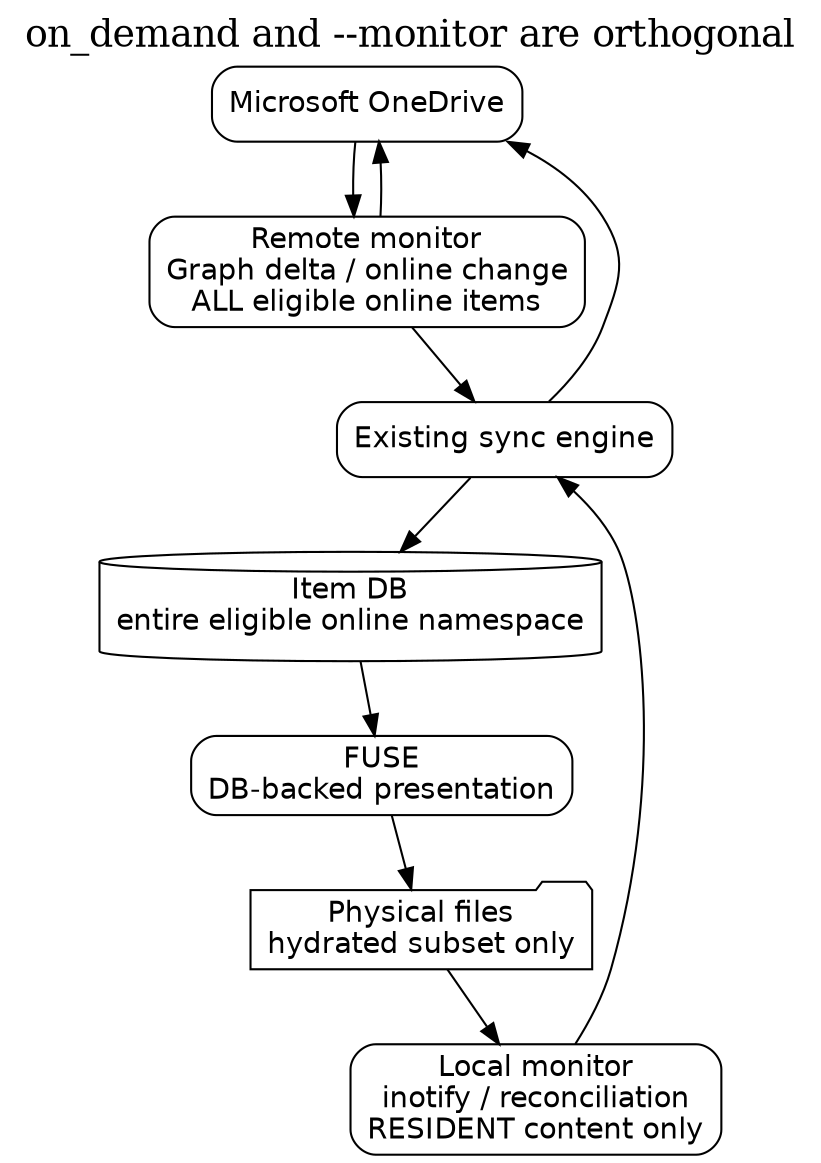
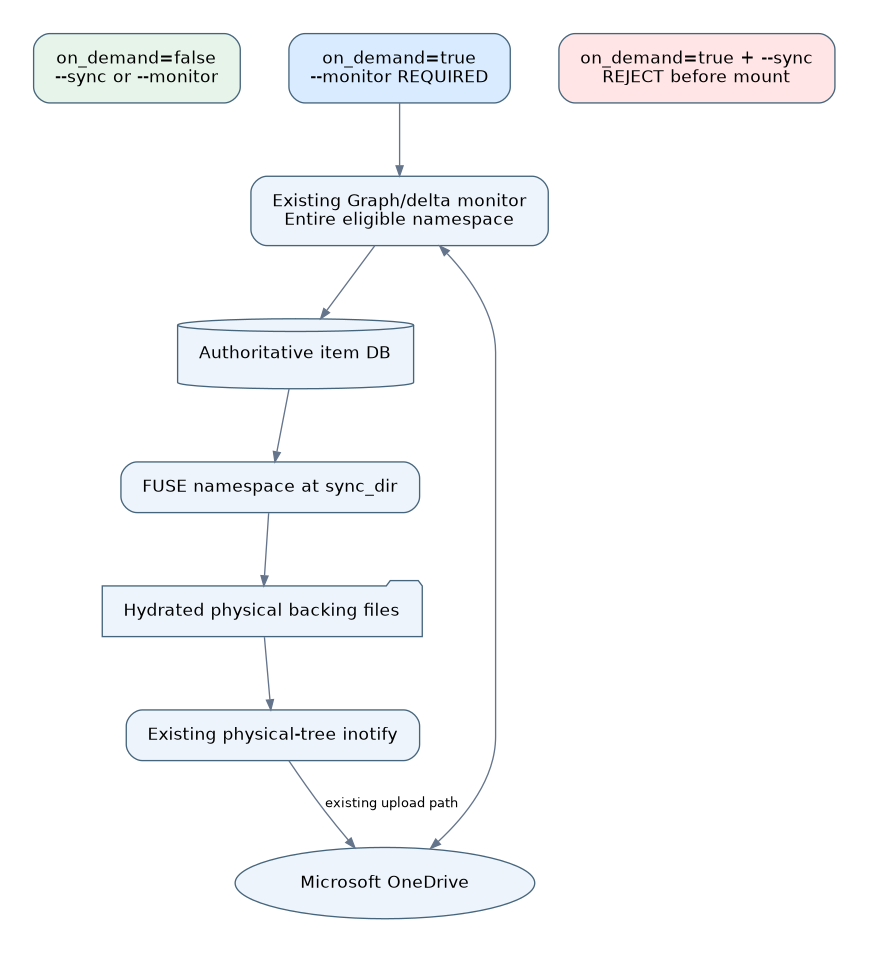
Update ADR
Update ADR

diff --git a/adr/ADR-001 - FUSE overlay and local storage/ADR-001-fuse-overlay-and-local-storage.md b/adr/ADR-001 - FUSE overlay and local storage/ADR-001-fuse-overlay-and-local-storage.md
@@ -105,28 +105,20 @@ The key distinction is:
 
 ---
 
-## 4. `on_demand` is orthogonal to normal synchronisation and `--monitor`
+## 4. `on_demand` requires `--monitor`; monitoring responsibilities remain unchanged
 
-This is a foundational design requirement.
+`on_demand` is a storage and namespace-presentation capability, not an alternative synchronisation engine or event loop. **On-demand operation requires `--monitor`**. A single-run `--sync` with `on_demand = "true"` is unsupported and must be rejected during configuration validation, before mounting FUSE or modifying local state.
 
-`on_demand` is **not** an alternative to `--monitor`, a special sync mode, or a replacement event loop.
+| Configuration | Supported | Behaviour |
+| --- | --- | --- |
+| `on_demand=false` + `--sync` | Yes | Existing single-run synchronisation |
+| `on_demand=false` + `--monitor` | Yes | Existing monitor operation |
+| `on_demand=true` + `--sync` | **No** | Explicit configuration error |
+| `on_demand=true` + `--monitor` | Yes | On-demand namespace with existing continuous remote/local monitoring |
 
-It is a storage/presentation capability that changes whether eligible remote content is immediately materialised.
+The responsibilities remain separate: remote Graph/delta monitoring covers the complete eligible online namespace, and local inotify/reconciliation covers physically resident content on the **underlying physical tree**, not the FUSE view. Cloud-only absence must never be interpreted as a local deletion.
 
-The following combinations are conceptually valid:
-
-```text
-on_demand=false + single sync
-on_demand=false + --monitor
-on_demand=true  + single sync
-on_demand=true  + --monitor
-```
-
-The meaning of `--monitor` does not change: the client continues monitoring Microsoft OneDrive for remote changes and the local filesystem for local changes.
-
-What changes is the **scope of physical local monitoring**, because cloud-only content has no local backing file to observe.
-
-![on_demand and monitor orthogonality](images/adr-001-monitor-orthogonality.png)
+![On-demand monitor operating model](images/adr-001-monitor-orthogonality.png)
 
 PlantUML source: [`plantuml/adr-001-monitor-orthogonality.puml`](plantuml/adr-001-monitor-orthogonality.puml)
 
@@ -425,6 +417,24 @@ FUSE must not implement an independent Microsoft Graph downloader.
 
 ---
 
+### 9.4 Background indexer and thumbnailer hydration guard — mandatory
+
+A FUSE `open()` does not, by itself, distinguish intentional user access from background inspection. Known indexers and thumbnail generators must **not automatically hydrate cloud-only content**. This protection is a required part of the demand-hydration milestone, not a later desktop enhancement.
+
+The initial policy is a **default-enabled, conservative process-identity blocklist**:
+
+1. For a content-requiring request against a `CLOUD_ONLY` file, inspect the FUSE request-context PID and, where available, `/proc/<pid>/exe` and `/proc/<pid>/comm`. Verify the executable identity before applying a block.
+2. Match recognised background scanners. Initial candidates include KDE Baloo (`baloo_file`, `baloo_file_extractor`), GNOME Tracker/LocalSearch (`tracker-miner-fs-3`, `localsearch-3`) and Tumbler (`tumblerd`), subject to confirmation of actual executable names and behaviour on supported desktops.
+3. For a blocked request, **do not enqueue a download, create a placeholder, or change residency state**. Return a defined filesystem error. Select `EACCES`, `EPERM`, or another suitable errno only after observing retry and user-interface behaviour.
+4. Allow metadata-only operations (`lookup`, `getattr`, `readdir`) without hydration. Allow recognised indexers to read already `HYDRATED` files normally.
+5. Allow unknown requesting processes to use ordinary hydration. Treat failed PID identity lookup as unknown for this *usability policy*; this is not a security boundary. Test PID reuse, process exit and identity ambiguity.
+6. Do not indiscriminately block generic desktop helpers such as KDE `kioworker`, which can perform deliberate user-initiated opens. Validate caller ancestry/context where necessary.
+7. Log blocked requests at debug verbosity without producing routine log floods. A configuration toggle or custom denylist may be added once naming and semantics are validated; the built-in default-on protection is required regardless.
+
+The guard is best-effort prevention of unintended background network/disk activity, not an access-control or anti-malware mechanism. A deliberately opened file must remain usable, and concurrent permitted/blocked requests must not race into unintended hydration.
+
+---
+
 ## 10. Hydrated edits and existing local-change processing
 
 Once hydrated, a file is real physical content.
@@ -475,7 +485,7 @@ After mounting, ordinary pathname lookup through `sync_dir` enters FUSE. The exi
 - local scanning;
 - conflict handling.
 
-### 11.1 Proposed mechanism to validate
+### 11.1 Current experimental mechanism and validation requirements
 
 Before mounting FUSE, retain a directory handle/file descriptor to the physical `sync_dir` and use directory-relative operations where appropriate:
 
@@ -487,7 +497,7 @@ unlinkat()
 renameat()
 ```
 
-This is a **prototype hypothesis**, not yet a final architectural decision.
+The current PR #3600 scaffold retains a physical-directory file descriptor before mounting and launches a dedicated helper via `fork()` followed immediately by `exec()` so the helper initialises its own D runtime/libfuse context. This is an **implemented experimental mechanism**, not yet a proven production architecture. A retained descriptor and directory-relative operations remain subject to validation.
 
 Testing must establish:
 
@@ -658,9 +668,13 @@ The exact ordering still requires prototype validation, but the lifecycle must s
 4. offline local changes are preserved/reconciled;
 5. local monitoring is attached to the correct physical backing tree;
 6. FUSE becomes visible at `sync_dir`;
-7. normal sync or `--monitor` operation continues;
+7. existing `--monitor` operation continues (single-run `--sync` is prohibited in on-demand mode);
 8. remote monitoring updates the entire eligible DB namespace;
 9. local monitoring processes only physically resident content.
+
+### 17.0 Mount readiness is a correctness gate
+
+The helper must not be considered ready merely because it is alive after a fixed delay. Before reporting the overlay active, verify the mount exists at the intended path and can successfully serve basic `getattr`/`readdir` operations. A failed or early-exiting helper must be reaped, descriptors closed, and any partially established mount safely recovered. Physical-tree inotify watches must remain attached to the backing tree throughout the lifecycle.
 
 ### 17.1 First-run / enabling on-demand on an existing sync
 
@@ -695,6 +709,10 @@ The client should:
 7. leave hydrated physical files directly accessible.
 
 Cloud-only entries cease to be visible locally while FUSE is absent, but remain in DB/OneDrive.
+
+### 18.1.1 Failed unmount and stale-mount recovery
+
+Unmount must be attempted and verified before the helper is terminated. If unmount fails, report an actionable error, inspect the actual mount state, and provide safe recovery rather than assuming that killing the helper removed the mount. Stale FUSE mounts must be detected at the next startup without deleting or overwriting hydrated physical data. Failure injection must cover early helper exit, `SIGTERM`, `SIGKILL`, unmount failure and interruption between physical and DB state transitions.
 
 ### 18.2 Crash
 
@@ -787,9 +805,7 @@ Aggressive caching may improve performance for large accounts, but correctness a
 
 ## 22. FUSE3 foundation
 
-Recovered groundwork contains D bindings with FUSE2-style callback signatures while the build configuration targets FUSE3.
-
-The bindings must be reconciled with the supported FUSE3 API before production integration.
+The experimental branch includes vendored D FUSE bindings and an explicit libfuse3 session. Their callback signatures, struct layouts and lifecycle must be validated against the supported FUSE3 ABI before production integration.
 
 This is an appropriate isolated contribution because it establishes infrastructure without deciding higher-level synchronisation semantics.
 
@@ -804,13 +820,17 @@ Binding work should include:
 
 ---
 
+The current scaffold uses an explicitly launched FUSE helper and a retained physical-directory FD. It still requires runtime proof of callback ABI correctness, errno mapping, file-handle and threading behaviour, verified readiness, clean unmount and stale-mount recovery. Remove unconditional `[FUSE-DEBUG]` output and unconditional libfuse `-d` diagnostics before production use; integrate diagnostic verbosity with existing logging policy. Linux and FreeBSD support must be validated separately rather than inferred from build success.
+
+---
+
 ## 23. Architectural invariants
 
 **INV-001 — Disabled means existing behaviour.**  
 `on_demand = "false"` retains current non-FUSE behaviour unless the user is explicitly transitioning from a previously cloud-only on-demand state.
 
-**INV-002 — `on_demand` is orthogonal to `--monitor`.**  
-On-demand does not disable or replace normal monitor mode, Graph delta processing or local change processing.
+**INV-002 — On-demand requires `--monitor`.**  
+`on_demand=true` is supported only with `--monitor`; it is invalid with `--sync`. This does not replace existing Graph or local monitor engines.
 
 **INV-003 — Remote monitoring covers the entire eligible namespace.**  
 Cloud-only items remain monitored remotely and represented through DB/FUSE.
@@ -862,89 +882,70 @@ Caches may accelerate presentation but must converge on authoritative DB state.
 
 ---
 
+**INV-019 — Background scanning does not automatically hydrate cloud-only content.**  
+Recognised background indexers/thumbnailers are denied content-triggered hydration by default; metadata operations and already hydrated content remain accessible.
+
+**INV-020 — Mount readiness is verified.**  
+An alive helper PID or elapsed startup delay alone does not establish a working overlay.
+
+**INV-021 — Failed unmount is surfaced and recoverable.**  
+Helper termination alone does not prove the mount has gone; physical content is preserved.
+
+**INV-022 — Demand hydration does not introduce a second download engine.**  
+FUSE requests are coordinated with the existing validated download path and item-identity rules.
+
+---
+
 ## 24. Implementation stages
 
-### Stage 1 — FUSE3 foundation
+### Stage 1 — FUSE3 lifecycle and physical overlay safety
 
-- reconcile/update bindings;
-- lifecycle object;
-- mount/unmount;
-- `on_demand` flag integration;
-- disabled by default.
+- Correct and validate FUSE3 callback ABI, errno handling and file-handle semantics.
+- Prove retained-FD backing-tree access, helper isolation and physical inotify attachment.
+- Replace fixed-delay readiness assumptions with verified mount/`getattr`/`readdir` readiness.
+- Prove clean unmount, failed-unmount handling, early helper exit and stale-mount recovery.
+- Test disposable file create/read/write/rename/delete and atomic-save patterns. **No Graph hydration.**
 
-### Stage 2 — Physical overlay + local monitoring prototype
+### Stage 2 — DB-authoritative read-only namespace
 
-Using disposable content:
+- Add stable residency metadata to the item DB.
+- Implement FUSE lookup/getattr/readdir for eligible DB files and directories, including `CLOUD_ONLY` items with no physical placeholders.
+- Preserve local-only and unsynchronised physical content, and make namespace caches converge with DB updates.
+- Prove restart reconstructs namespace without content downloads.
 
-- mount over existing physical tree;
-- expose real files;
-- read/write/create/rename/delete;
-- editor atomic-save patterns;
-- underlying direct engine access;
-- inotify event behaviour;
-- clean shutdown;
-- forced termination/stale mount recovery.
+**First functional milestone:** `ls ~/OneDrive` shows eligible online entries whose bytes are not resident.
 
-**No Graph hydration required.**
+### Stage 3 — Existing sync-engine materialisation decision
 
-### Stage 3 — DB-authoritative read-only namespace
+- Preserve delta/children enumeration, filtering, remote identity, bounded processing and memory behaviour.
+- Intercept the existing download scheduling decision: leave eligible content cloud-only unless local policy requires it.
+- Prove cloud-only absence never enters deletion processing.
+- Validate in `--monitor` mode, not single-run `--sync`.
 
-- expose DB namespace;
-- minimum stable hydration state;
-- cloud-only entries without placeholders;
-- directory representation;
-- DB rename/move/delete reflected in FUSE;
-- enumeration does not hydrate;
-- cloud-only absence cannot generate deletion.
+### Stage 4 — Demand hydration **with background-process protection**
 
-### Stage 4 — Sync-engine materialisation decision
+- Define content-demand semantics and integrate existing validated download machinery.
+- Coordinate concurrent opens, remote mutation, network/disk errors and atomic DB/physical state transitions.
+- Implement default-on recognised indexer/thumbnailer protection before download scheduling.
+- Test deliberate user opens, blocked background opens, unknown PID fallback and race conditions as **one acceptance gate**.
 
-- preserve existing remote pipeline;
-- intercept ordinary download decision;
-- commit cloud-only state instead of queueing content;
-- preserve immediate hydration for policy-required local items;
-- validate with normal sync and `--monitor`.
+### Stage 5 — Full local mutation and offline reconciliation
 
-### Stage 5 — Demand hydration
+- Create/write/truncate/rename/move/replace/unlink and editor atomic-save semantics.
+- Handle local-only items, edits while the client is stopped, and existing inotify/upload/conflict paths.
 
-- FUSE content demand;
-- existing download path;
-- concurrent request coordination;
-- network/disk failure;
-- crash recovery;
-- atomic stable-state transition.
+### Stage 6 — Safe dehydration
 
-### Stage 6 — Full local mutation semantics
+- Distinguish physical-content reclamation from user deletion.
+- Protect dirty, pinned, open, in-flight and ambiguous files; prove crash-safe ordering.
 
-- create/write/truncate;
-- rename/move/replace;
-- delete;
-- local edits while client stopped;
-- inotify behaviour;
-- existing upload path;
-- conflict behaviour.
+### Stage 7 — Retention and storage policy
 
-### Stage 7 — Dehydration primitive
+- `always_local`, manual free-up-space, optional cache limits and **opt-in** expiry disabled by default.
 
-- safe manual transition;
-- open/in-use protection;
-- dirty-file protection;
-- crash-safe ordering;
-- deletion/dehydration distinction.
+### Stage 8 — Desktop integration and UX
 
-### Stage 8 — Retention policy
-
-- `always_local`;
-- free-up-space;
-- optional cache-size limit;
-- optional expiry policy, disabled by default.
-
-### Stage 9 — Desktop integration
-
-- status representation;
-- thumbnails;
-- file-manager behaviour;
-- usability enhancements.
+- Residency/status presentation, file-manager integration and thumbnail behaviour consistent with the background hydration guard.
 
 ---
 
@@ -983,7 +984,22 @@ With FUSE absent, modify/create/rename/delete hydrated physical content, restart
 
 Validate large DB-backed namespaces without mass hydration and without pathological lookup/readdir/database overhead.
 
-### 25.7 Account coverage
+### 25.7 Background hydration protection tests
+
+- Run KDE Baloo and GNOME Tracker/LocalSearch over thousands of cloud-only entries: **zero content-download requests and zero residency transitions** attributable to recognised blocked processes.
+- Exercise thumbnail workers and repeat scans: no automatic hydration, pathological retry loops or sustained CPU churn.
+- Confirm recognised scanners can access already hydrated files and metadata queries remain available.
+- Confirm intentional user opens hydrate successfully, including via desktop file managers and ordinary applications.
+- Test unknown PID identity, `/proc` lookup failure, PID reuse/exit and concurrent blocked/permitted requests.
+- Repeat after restart and at 100K+ namespace scale.
+
+### 25.8 Lifecycle failure injection
+
+- Verify readiness handshake and basic FUSE operations, not only helper survival.
+- Exercise mount failure, helper early exit, failed unmount, `SIGTERM`/`SIGKILL`, stale mounts and post-restart preservation of physical files.
+- Confirm no Graph hydration or unintended local deletion in these failures.
+
+### 25.9 Account coverage
 
 At minimum:
 
@@ -1009,15 +1025,18 @@ Platform coverage must include supported Linux environments and FreeBSD where FU
 9. How are concurrent hydration requests serialised?
 10. What is the crash-safe commit ordering for hydration?
 11. What is the crash-safe commit ordering for dehydration?
-12. What exact operation constitutes content demand?
-13. How should thumbnail generation avoid unintended hydration?
+12. What exact operation constitutes content demand, and what filesystem error should a blocked background request return without causing retry loops?
+13. Which verified executable identities/ancestry rules belong in the default background-process blocklist? How are FUSE PID identity, PID reuse and `/proc` failures handled?
 14. How should disabling `on_demand` materialise existing cloud-only items?
 15. How does `always_local` interact with existing filters and `sync_list`?
-16. Which configuration combinations require initial rejection?
+16. Beyond the decided rejection of `on_demand=true` with `--sync`, which other configuration combinations require initial rejection?
 17. What Linux/FreeBSD differences require abstraction?
 18. How are physical directories managed when all remote descendants are cloud-only?
 19. How are local-only unsynchronised items represented before Graph assigns remote identity?
 20. How should FUSE behave if the DB is temporarily unavailable or inconsistent?
+21. How does the helper prove mount readiness to the parent, including successful `getattr`/`readdir`?
+22. How are failed unmount and stale mount state verified and safely recovered?
+23. What bounded lookup and cache-invalidation strategy remains efficient for 100K+ items?
 
 ---
 
@@ -1073,7 +1092,7 @@ FUSE at existing sync_dir
                        Microsoft Graph
 ```
 
-`on_demand` and `--monitor` coexist.
+`on_demand=true` **requires** `--monitor` and cannot be used with `--sync`.
 
 Remote monitoring continues across the whole eligible online namespace.
 
@@ -1083,6 +1102,6 @@ The database determines what FUSE presents.
 
 The existing engine continues to determine how OneDrive is synchronised.
 
-FUSE determines when user access requires cloud-only content to become physical.
+FUSE determines when eligible content demand requires cloud-only content to become physical, while recognised background indexers and thumbnail workers must not automatically trigger hydration.
 
 Once content is physical, the design aims to return immediately to the mature local-change and upload paths that already exist in the client.
